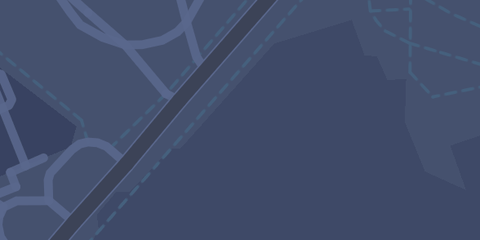
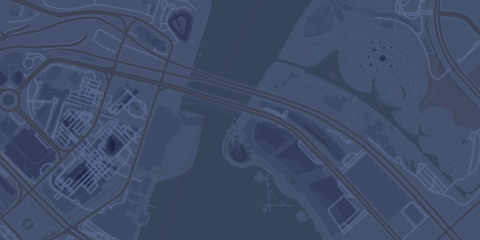
feat(maps): all ten style thumbnails recaptured at Marina Bay z16.4 (CG-viewport downscale)

diff --git a/dashboard/src/maps/styles.ts b/dashboard/src/maps/styles.ts
@@ -48,7 +48,7 @@ export const STYLE_SWATCHES: { id: MapsStyleId; label: string; color: string }[]
   { id: "watercolour", label: "Watercolour", color: "#f1e5cb" },
 ];
 
-export const STYLE_THUMB_CAMERA = { lat: 1.2864, lon: 103.8604, zoom: 15.5, pitch: 0, bearing: 75, cgShiftX: 0 } as const;
+export const STYLE_THUMB_CAMERA = { lat: 1.2864, lon: 103.8604, zoom: 16.4, pitch: 0, bearing: 75, cgShiftX: 0 } as const;
 
 const TONER_LINES_WIDTH_FACTOR = 0.55;
 

diff --git a/dashboard/src/maps/STYLE_THUMBS.md b/dashboard/src/maps/STYLE_THUMBS.md
@@ -1,14 +1,14 @@
 # Style picker thumbnails
 
-Every file under `dashboard/public/style-thumbs/` should be the CG viewport (the 1920×1080 centre box of the wall) downscaled to 480×240 — a 2:1 crop of the CG box's full height, centred, not a 1:1 centre crop of the still (that read two zoom levels tighter than the camera). Camera (`STYLE_THUMB_CAMERA` in `styles.ts`): Marina Bay, `lat 1.2864, lon 103.8604`, zoom 15.5, pitch 0, bearing 75, CG shift X 0.
+Every file under `dashboard/public/style-thumbs/` should be the CG viewport (the 1920×1080 centre box of the wall) downscaled to 480×240 — a 2:1 crop of the CG box's full height, centred, not a 1:1 centre crop of the still (that read two zoom levels tighter than the camera). Camera (`STYLE_THUMB_CAMERA` in `styles.ts`): Marina Bay, `lat 1.2864, lon 103.8604`, zoom 16.4, pitch 0, bearing 75, CG shift X 0.
 
-Only `watercolour.png` has been recaptured this way so far; the other nine are still old downtown z16.7 crops.
+All ten thumbnails are captured this way (3D reuses the Liberty capture at pitch 0, as before).
 
 ## Recapture recipe
 
 1. `cd dashboard && npm run dev`, open the Maps tab, **New map deck** — never the production deck.
 2. Type `@1.2864,103.8604` in the search box (accepts `@lat,lng`).
-3. In the inspector set Zoom `15.5`, Pitch `0`, Bearing `75`, and CG shift X `0`.
+3. In the inspector set Zoom `16.4`, Pitch `0`, Bearing `75`, and CG shift X `0`.
 4. Pick a style, wait for tiles to settle.
 5. Either grab the maplibre canvas via devtools and `drawImage` the CG box (full band height, 2:1 width centred on the box) onto a 480×240 canvas and save, or export a CG still and downscale it to 480×240 for a crisper result.
 6. Overwrite `dashboard/public/style-thumbs/<id>.png`.
